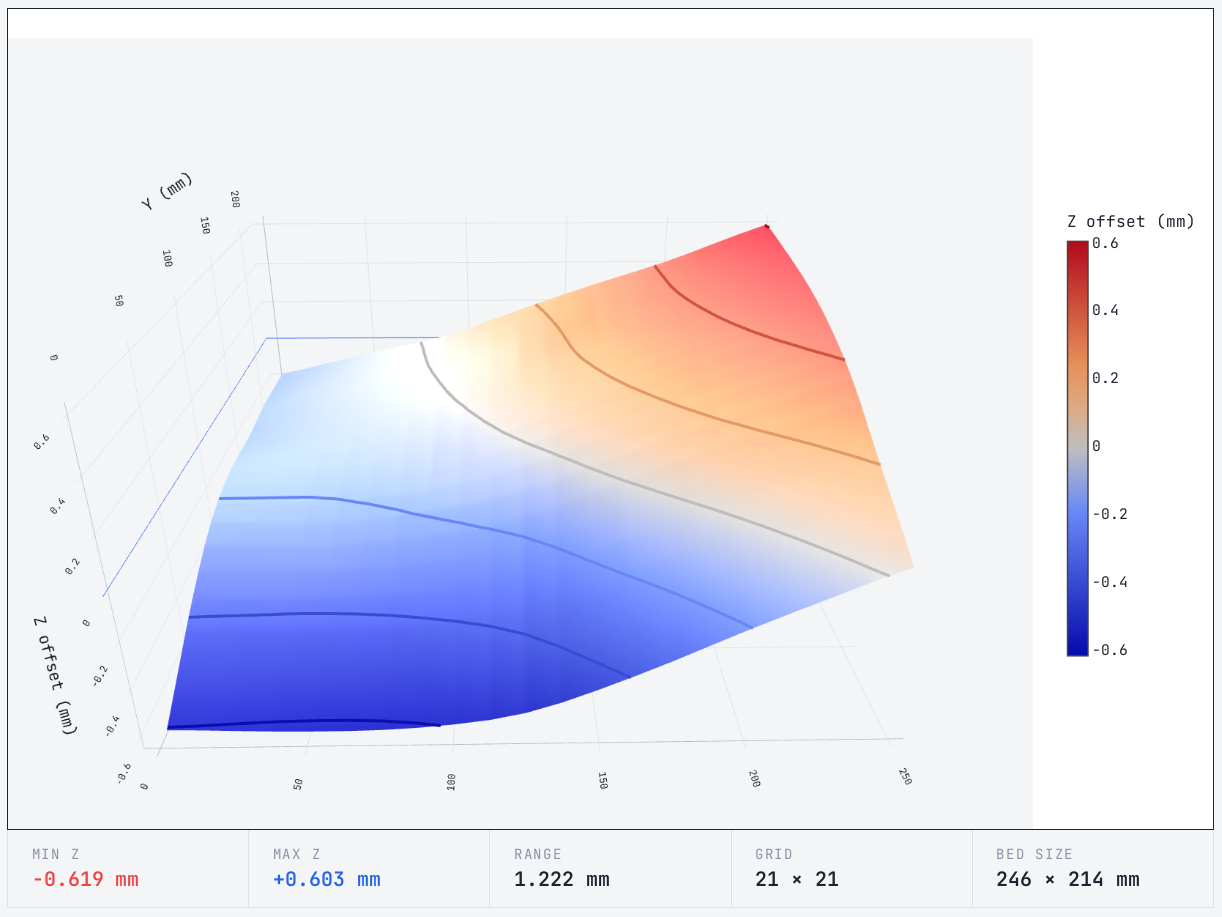
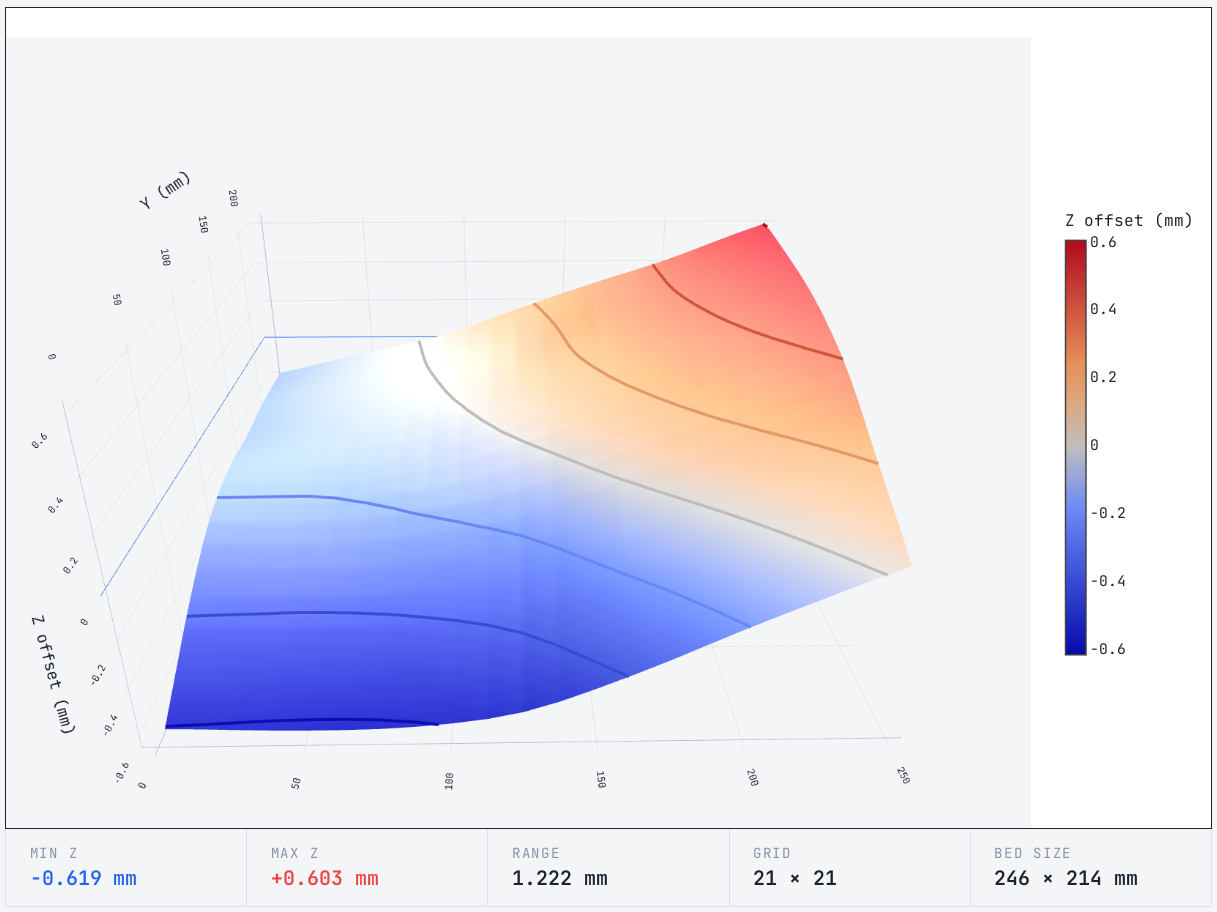
Fix pos/neg silliness

diff --git a/bedviz.html b/bedviz.html
@@ -215,8 +215,8 @@
     color: #1e2330;
   }
 
-  .stat-value.neg { color: #ef4444; }
-  .stat-value.pos { color: #2563eb; }
+  .stat-value.pos { color: #ef4444; }
+  .stat-value.neg { color: #2563eb; }
 </style>
 </head>
 <body>
